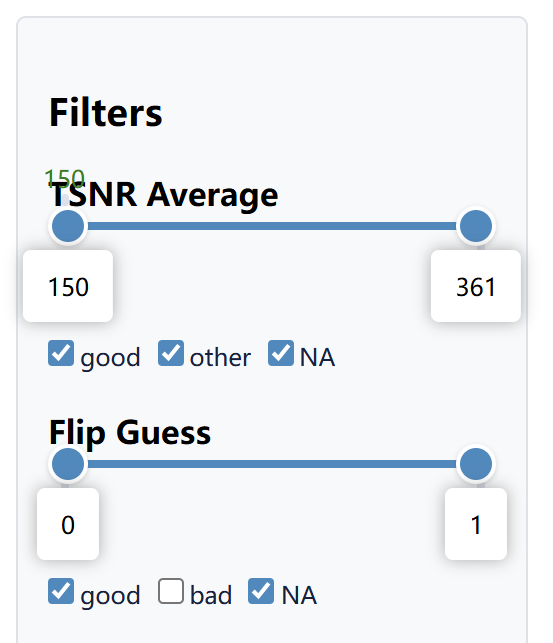
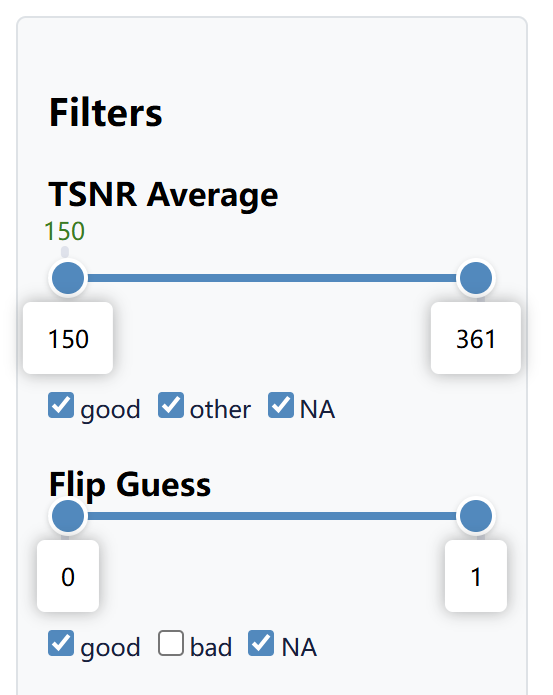
Leave room above a slider whose threshold falls on one of its ends
The sidebar decided whether to make room for the threshold numbers by counting the slider's marks, so a threshold equal to the slider's lower or upper end, as with TSNR when every run is above 150, drew its number over the metric's name. It now checks for a threshold mark instead. The AFNI sidebar picture in the handbook is retaken.

diff --git a/tests/test_filter_components.py b/tests/test_filter_components.py
@@ -79,6 +79,16 @@ class TestMetricFilter:
         assert slider.marks["0.2"]["label"] == "0.2"
         assert by_id(component, {"type": STATUS, "column": "cens_frac"}).value == ["good", "other", "NA"]
 
+    @pytest.mark.parametrize("metric, bounds, room", [
+        (CENS_FRAC, (0.0, 0.3, 0.01), "26px"),
+        (TSNR, (150.0, 300.0, 1), "26px"),
+        (FLIP, (0.0, 1.0, 1), "0"),
+        (DVARS, (0.0, 1.0, 0.01), "0"),
+    ])
+    def test_the_label_leaves_room_for_threshold_labels(self, metric, bounds, room):
+        label = next(c for c in create_metric_filter(metric, bounds)._traverse() if type(c).__name__ == "Label")
+        assert label.style["margin-bottom"] == room
+
 
 class TestRulesSummary:
 

diff --git a/fMRI_QCtoolkit/utils/filter_components_utils.py b/fMRI_QCtoolkit/utils/filter_components_utils.py
@@ -89,8 +89,8 @@ def create_metric_filter(metric, bounds):
     for tier, (op, value) in metric.rules.items():
         if op in UPWARD | DOWNWARD and lo <= value <= hi:
             marks[mark_key(value)] = _mark(value, _MARK_COLORS[tier])
-    # Room above the track for the threshold labels
-    lifted = len(marks) > 2
+    # Room above the track for the threshold labels, also when a threshold is an end of the slider
+    lifted = any(isinstance(mark, dict) for mark in marks.values())
     return html.Div([
         html.Label(metric.label, style={'font-weight': 'bold', 'display': 'block',
                                         'margin-bottom': '26px' if lifted else '0'}),
